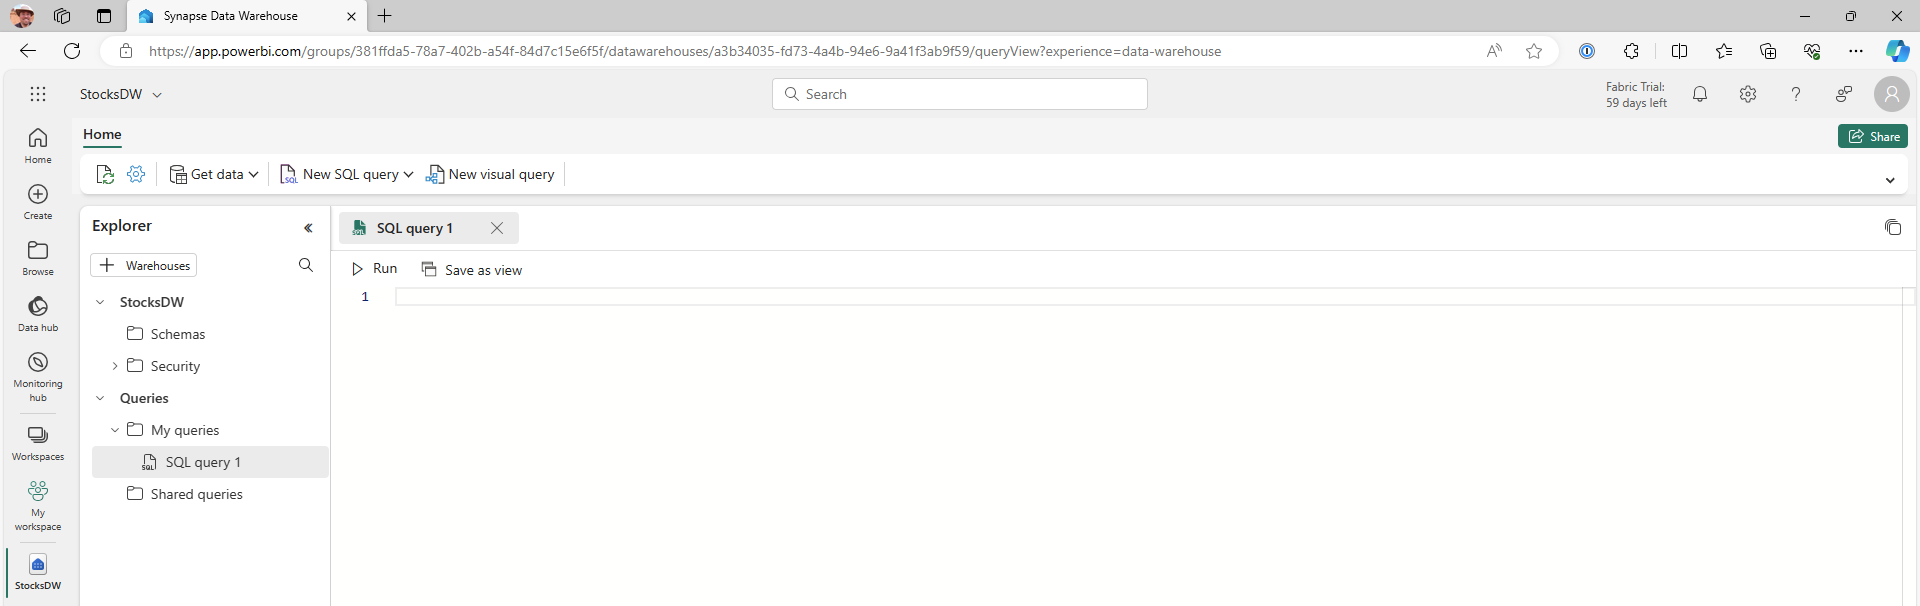
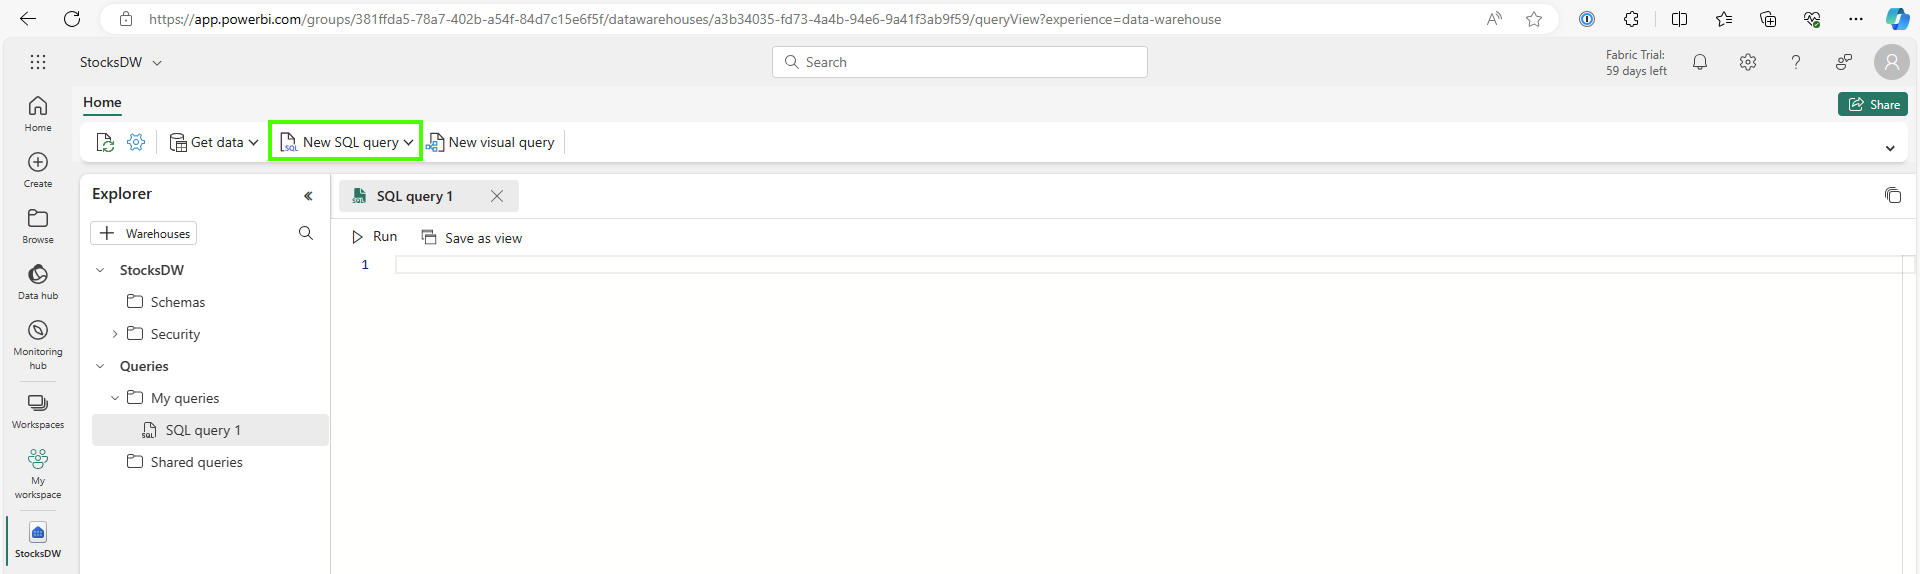
mod 5 updates

Changed region(s): [[0.0, 0.0, 1.0, 0.8885], [0.0, 0.9181, 0.0312, 0.9774]]

diff --git a/modules/module05a.md b/modules/module05a.md
@@ -30,9 +30,9 @@ erDiagram
     "Stock Price Fact" {
         int Symbol_SK
         date DateKey
-        decimal MinPrice
-        decimal MaxPrice
-        decimal ClosePrice
+        float MinPrice
+        float MaxPrice
+        float ClosePrice
     }
     "Date Dimension" {
         date DateKey
@@ -70,11 +70,11 @@ To get started, we'll first create the Synapse Data Warehouse in our workspace. 
 
 ![Create Data Warehouse](../images/module05/createwarehouse-persona.png)
 
-Or, from any persona, when on the *Home* page to view all items in the workspace, click *New* to add a new item, and select *Warehouse* to create a new Synapse Data Warehouse.
+Or, from the workspace home page, click *New* to add a new item, and select *Warehouse* to create a new Synapse Data Warehouse.
 
 ![Create Data Warehouse](../images/module05/createwarehouse.png)
 
-Name the warehouse StocksDW (or another name, if you prefer). Once created, you'll see the warehouse is largely empty. Create New SQL query at the top of the window. We'll start building our schema in the next step:
+Name the warehouse StocksDW (or another name, if you prefer). Once created, you'll see the warehouse is largely empty. Click *New SQL query* at the top of the window. We'll start building our schema in the next step:
 
 ![Empty Warehouse](../images/module05/emptywarehouse.png)
 
@@ -82,7 +82,7 @@ Name the warehouse StocksDW (or another name, if you prefer). Once created, you'
 
 If you prefer, you can create separate SQL queries for each of these SQL scripts, or you can re-use the same query editor.
 
-All of these queries can be downloaded using these links:
+All of these queries can be found in the resources > module05 folder, or can be downloaded in the following zip file:
 [All SQL Queries](./module05/scripts/sqlscripts.zip)
 
 Run the following query that creates the staging tables that will hold the data during the ETL (Extract, Transform, and Load) process. This will also create the two schemas used -- stg and ETL; schemas help group workloads by type or function. Note that the begin date for the waterwark is arbitrarily chosen as some previous date (12/31/2022), ensuring all data is captured.

diff --git a/modules/module05b.md b/modules/module05b.md
@@ -23,7 +23,7 @@ We'll also create views to support the pipeline by making it easier to load data
 
 This module is broken down into 3 submodules:
 * [Module 05a - Setting up the Warehouse and Pipeline](./module05a.md)
-* [Module 05b - Building the dimension and fact tables, completing the pipeline](./module5b.md)
+* [Module 05b - Building the dimension and fact tables, completing the pipeline](./module05b.md)
 * [Module 05c - Semantic Modeling and reporting](./module05c.md)
 
 ## Table of Contents

diff --git a/modules/module05c.md b/modules/module05c.md
@@ -20,7 +20,7 @@ One final step is to operationalize the data by creating a semantic model and vi
 
 This module is broken down into 3 submodules:
 * [Module 05a - Setting up the Warehouse and Pipeline](./module05a.md)
-* [Module 05b - Building the dimension and fact tables, completing the pipeline](./module5b.md)
+* [Module 05b - Building the dimension and fact tables, completing the pipeline](./module05b.md)
 * [Module 05c - Semantic Modeling and reporting](./module05c.md)
 
 ## Table of Contents
